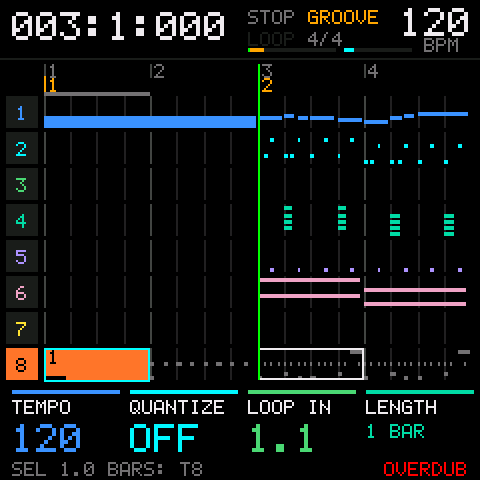
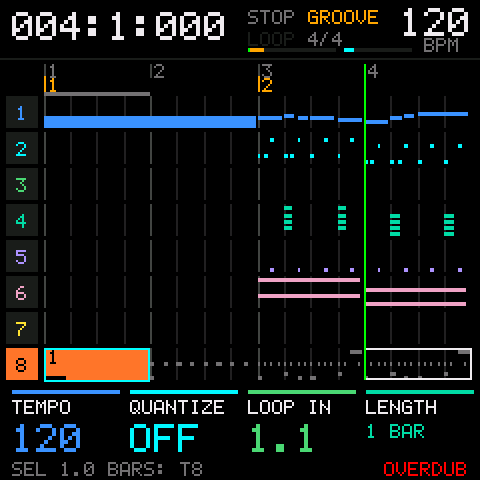
0.6.5: SHIFT+B3 pastes and moves on
SHIFT+B3 pastes over at the playhead as SHIFT+A3 does, then moves the
playhead and start point to the end of what it pasted (stopped, kept
inside an open clip), so taps lay copies end to end with the paste
outline showing where the next lands. SHIFT+A3 still stays put. The
arranging phase checks both, the start point, and that each copy is the
source's notes. Host 8,178 and preview 825 checks pass, full build
532,296 bytes.

Claude-Session: https://claude.ai/code/session_01Y9zi29XiKJp4ggRWq3oYqN

Changed region(s): [[0.5312, 0.1562, 1.0, 0.8125], [0.125, 0.0, 0.1562, 0.0938]]

diff --git a/app/version.h b/app/version.h
@@ -5,6 +5,6 @@
 #define FM1_RELEASE_VERSION "V14"
 #define FM1_UPDATE_PRODUCT "FM-1_8000014"
 /* song-mode: QSEQ's release (semver), FM1 QY before 0.6.0. The two above are FM1 Open's upstream base. */
-#define QSEQ_VERSION "0.6.4"
+#define QSEQ_VERSION "0.6.5"
 
 #endif

diff --git a/README.md b/README.md
@@ -27,7 +27,7 @@ There are two device builds, and the browser preview:
 | Build | What's in it | App size |
 |---|---|---|
 | Default (`./build.sh`) | The hardware test build: FM1 Open V14 plus a diagnostics page that plays a built-in test song and measures its timing. To fit, it leaves out the 16 factory preset projects and the workbench's project, sample and voice transfers. Firmware updates still work | 453,608 bytes of 453,921 |
-| Full (`FM1_SONG_DEVICE_FULL=1`) | The whole song mode, without the diagnostics page. It leaves out the stock step and pattern pages (their sync and MIDI pages move to the device settings), the stock project pages, the demo projects, the factory sound sets and the built-in FM factory voices (the workbench can send those to the DX7 library) | 532,232 bytes of 548,129 |
+| Full (`FM1_SONG_DEVICE_FULL=1`) | The whole song mode, without the diagnostics page. It leaves out the stock step and pattern pages (their sync and MIDI pages move to the device settings), the stock project pages, the demo projects, the factory sound sets and the built-in FM factory voices (the workbench can send those to the DX7 library) | 532,296 bytes of 548,129 |
 | Browser preview | The whole song mode on FM1 Open's simulator, in one HTML file | |
 
 ### What installing the full build costs

diff --git a/docs/user-guide.md b/docs/user-guide.md
@@ -148,7 +148,8 @@ SHIFT plus a key:
 |---|---|
 | F3 | Copy the selection |
 | G3 | Cut |
-| A3, B3 | Paste at the playhead, over what's there. Nothing after it moves |
+| A3 | Paste at the playhead, over what's there. Nothing after it moves |
+| B3 | Paste the same way, then move the playhead (and the start point) on to the end of what was pasted, so taps lay copies end to end. Stopped only: while playing, B3 pastes as A3 does |
 | C4 | Duplicate: paste right after the selection, over what's there, and move the selection onto the copy |
 | D4 | Insert empty bars the length of the selection |
 | E4 | Delete the selection: the notes, clip blocks and automation that start in it, on the selected tracks only. Nothing moves, and the other tracks are left alone |

diff --git a/docs/getting-started.md b/docs/getting-started.md
@@ -143,6 +143,7 @@ tracks, or G4 for all of them. Then:
 |---|---|
 | SHIFT+F3 | Copy |
 | SHIFT+A3 | Paste at the playhead |
+| SHIFT+B3 | Paste, then move the playhead on to its end, ready for the next |
 | SHIFT+C4 | Duplicate right after the selection |
 | SHIFT+E4 | Delete what's selected |
 | SHIFT+D4 | Insert empty bars |
@@ -242,6 +243,7 @@ keyboard's octave.
 | Marker to marker | SHIFT+PRESETS |
 | Pick tracks | Hold SEL, tap F3 to F4 (G4 for all) |
 | Copy, cut, paste | SHIFT+F3, SHIFT+G3, SHIFT+A3 |
+| Paste and move on | SHIFT+B3 |
 | Duplicate, delete, insert bars | SHIFT+C4, SHIFT+E4, SHIFT+D4 |
 | Automation view | SHIFT+LFO |
 | Edit jobs | SHIFT+EDIT |

diff --git a/CHANGELOG.md b/CHANGELOG.md
@@ -2,6 +2,12 @@
 
 The version is `QSEQ_VERSION` in `app/version.h` (semver), and each release is tagged `v<version>`.
 
+## 0.6.5
+
+- SHIFT+B3 pastes and moves on: it pastes over at the playhead, as SHIFT+A3 does, then moves the playhead and
+  the start point to the end of what it pasted, so taps lay copies end to end, the paste outline showing where
+  the next one lands. SHIFT+A3 still leaves the playhead where it was. While playing, B3 pastes as A3 does.
+
 ## 0.6.4
 
 - K3 (LOOP IN) moves the whole loop, keeping its length, and stops at the song's end. K4 is the loop's LENGTH,
